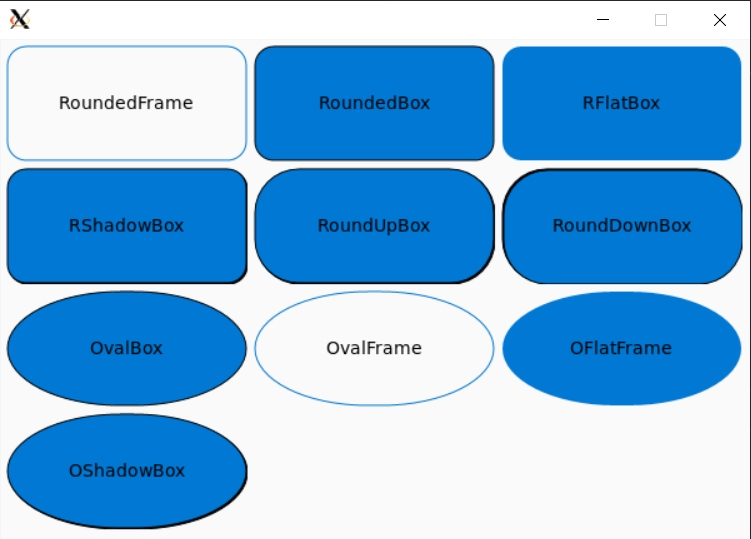
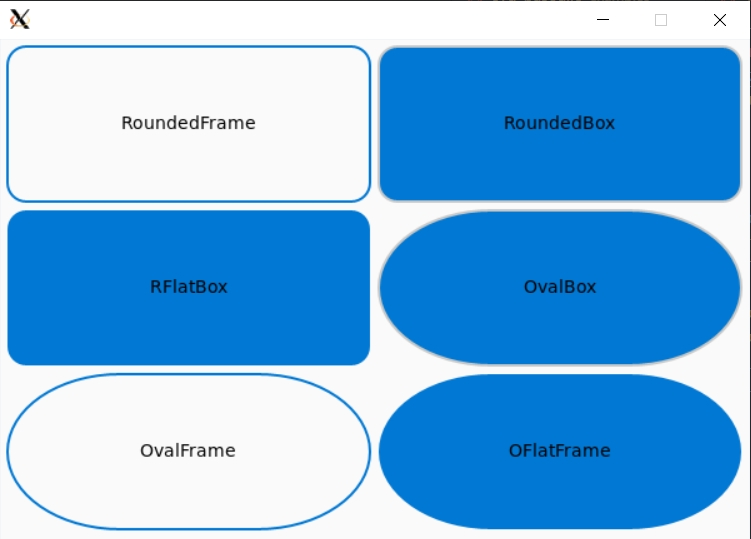
some changes to the SvgBased scheme

diff --git a/src/widget_schemes/svg_based.rs b/src/widget_schemes/svg_based.rs
@@ -4,7 +4,7 @@ use fltk::prelude::ImageExt;
 fn rounded_frame(x: i32, y: i32, w: i32, h: i32, c: Color) {
     let (r, g, b) = c.to_rgb();
     let svg = format!("<?xml version='1.0'?><svg width='{}' height='{}' xmlns='http://www.w3.org/2000/svg'>
-    <rect stroke-width='1' rx='15' width='{}' height='{}' stroke='rgb({}, {}, {})' fill='none' y='1' x='1'/>
+    <rect stroke-width='2' rx='15' width='{}' height='{}' stroke='rgb({}, {}, {})' fill='none' y='1' x='1'/>
   </svg>",w, h, w - 2, h - 2, r, g, b);
     let mut image = fltk::image::SvgImage::from_data(&svg).unwrap();
     image.draw(x, y, w, h);
@@ -13,7 +13,7 @@ fn rounded_frame(x: i32, y: i32, w: i32, h: i32, c: Color) {
 fn rounded_box(x: i32, y: i32, w: i32, h: i32, c: Color) {
     let (r, g, b) = c.to_rgb();
     let svg = format!("<?xml version='1.0'?><svg width='{}' height='{}' xmlns='http://www.w3.org/2000/svg'>
-    <rect stroke-width='1' stroke='black' rx='15' width='{}' height='{}' fill='rgb({}, {}, {})' y='1' x='1'/>
+    <rect stroke-width='2' stroke='rgb(200, 200, 200)' rx='15' width='{}' height='{}' fill='rgb({}, {}, {})' y='1' x='1'/>
   </svg>",w, h, w - 2, h - 2, r, g, b);
     let mut image = fltk::image::SvgImage::from_data(&svg).unwrap();
     image.draw(x, y, w, h);
@@ -22,38 +22,8 @@ fn rounded_box(x: i32, y: i32, w: i32, h: i32, c: Color) {
 fn rflat_box(x: i32, y: i32, w: i32, h: i32, c: Color) {
     let (r, g, b) = c.to_rgb();
     let svg = format!("<?xml version='1.0'?><svg width='{}' height='{}' xmlns='http://www.w3.org/2000/svg'>
-    <rect stroke-width='1' stroke='none' rx='15' width='{}' height='{}' fill='rgb({}, {}, {})' y='1' x='1'/>
+    <rect stroke-width='2' stroke='none' rx='15' width='{}' height='{}' fill='rgb({}, {}, {})' y='1' x='1'/>
   </svg>",w, h, w - 2, h - 2, r, g, b);
-    let mut image = fltk::image::SvgImage::from_data(&svg).unwrap();
-    image.draw(x, y, w, h);
-}
-
-fn rshadow_box(x: i32, y: i32, w: i32, h: i32, c: Color) {
-    let (r, g, b) = c.to_rgb();
-    let svg = format!("<?xml version='1.0'?><svg width='{}' height='{}' xmlns='http://www.w3.org/2000/svg'>
-    <rect stroke-width='1' stroke='black' rx='15' width='{}' height='{}' fill='black' y='2' x='2'/>
-    <rect stroke-width='1' stroke='black' rx='15' width='{}' height='{}' fill='rgb({}, {}, {})' y='1' x='1'/>
-  </svg>",w, h, w - 2 , h - 2 , w - 2, h -2, r, g, b);
-    let mut image = fltk::image::SvgImage::from_data(&svg).unwrap();
-    image.draw(x, y, w, h);
-}
-
-fn round_up_box(x: i32, y: i32, w: i32, h: i32, c: Color) {
-    let (r, g, b) = c.to_rgb();
-    let svg = format!("<?xml version='1.0'?><svg width='{}' height='{}' xmlns='http://www.w3.org/2000/svg'>
-    <rect stroke-width='1' stroke='black' rx='35' width='{}' height='{}' fill='black' y='2' x='2'/>
-    <rect stroke-width='1' stroke='black' rx='35' width='{}' height='{}' fill='rgb({}, {}, {})' y='1' x='1'/>
-  </svg>",w, h, w - 2 , h - 2 , w - 2, h -2, r, g, b);
-    let mut image = fltk::image::SvgImage::from_data(&svg).unwrap();
-    image.draw(x, y, w, h);
-}
-
-fn round_down_box(x: i32, y: i32, w: i32, h: i32, c: Color) {
-    let (r, g, b) = c.to_rgb();
-    let svg = format!("<?xml version='1.0'?><svg width='{}' height='{}' xmlns='http://www.w3.org/2000/svg'>
-    <rect stroke-width='1' stroke='black' rx='35' width='{}' height='{}' fill='black' y='1' x='1'/>
-    <rect stroke-width='1' stroke='black' rx='35' width='{}' height='{}' fill='rgb({}, {}, {})' y='2' x='2'/>
-  </svg>",w, h, w -2, h - 2 , w - 2, h -2, r, g, b);
     let mut image = fltk::image::SvgImage::from_data(&svg).unwrap();
     image.draw(x, y, w, h);
 }
@@ -61,7 +31,7 @@ fn round_down_box(x: i32, y: i32, w: i32, h: i32, c: Color) {
 fn oval_box(x: i32, y: i32, w: i32, h: i32, c: Color) {
     let (r, g, b) = c.to_rgb();
     let svg = format!("<?xml version='1.0'?><svg width='{}' height='{}' xmlns='http://www.w3.org/2000/svg'>
-    <rect stroke-width='1' stroke='black' rx='90' width='{}' height='{}' fill='rgb({}, {}, {})' y='1' x='1'/>
+    <rect stroke-width='2' stroke='rgb(200, 200, 200)' rx='90' width='{}' height='{}' fill='rgb({}, {}, {})' y='1' x='1'/>
   </svg>",w, h, w - 2, h - 2, r, g, b);
     let mut image = fltk::image::SvgImage::from_data(&svg).unwrap();
     image.draw(x, y, w, h);
@@ -70,7 +40,7 @@ fn oval_box(x: i32, y: i32, w: i32, h: i32, c: Color) {
 fn oval_frame(x: i32, y: i32, w: i32, h: i32, c: Color) {
     let (r, g, b) = c.to_rgb();
     let svg = format!("<?xml version='1.0'?><svg width='{}' height='{}' xmlns='http://www.w3.org/2000/svg'>
-    <rect stroke-width='1' rx='90' width='{}' height='{}' stroke='rgb({}, {}, {})' fill='none' y='1' x='1'/>
+    <rect stroke-width='2' rx='90' width='{}' height='{}' stroke='rgb({}, {}, {})' fill='none' y='1' x='1'/>
   </svg>",w, h, w - 2, h - 2, r, g, b);
     let mut image = fltk::image::SvgImage::from_data(&svg).unwrap();
     image.draw(x, y, w, h);
@@ -79,18 +49,8 @@ fn oval_frame(x: i32, y: i32, w: i32, h: i32, c: Color) {
 fn oflat_box(x: i32, y: i32, w: i32, h: i32, c: Color) {
     let (r, g, b) = c.to_rgb();
     let svg = format!("<?xml version='1.0'?><svg width='{}' height='{}' xmlns='http://www.w3.org/2000/svg'>
-    <rect stroke-width='1' stroke='none' rx='90' width='{}' height='{}' fill='rgb({}, {}, {})' y='1' x='1'/>
+    <rect stroke-width='2' stroke='none' rx='90' width='{}' height='{}' fill='rgb({}, {}, {})' y='1' x='1'/>
   </svg>",w, h, w - 2, h - 2, r, g, b);
-    let mut image = fltk::image::SvgImage::from_data(&svg).unwrap();
-    image.draw(x, y, w, h);
-}
-
-fn oshadow_box(x: i32, y: i32, w: i32, h: i32, c: Color) {
-    let (r, g, b) = c.to_rgb();
-    let svg = format!("<?xml version='1.0'?><svg width='{}' height='{}' xmlns='http://www.w3.org/2000/svg'>
-    <rect stroke-width='1' stroke='black' rx='90' width='{}' height='{}' fill='black' y='2' x='2'/>
-    <rect stroke-width='1' stroke='black' rx='90' width='{}' height='{}' fill='rgb({}, {}, {})' y='1' x='1'/>
-  </svg>",w, h, w - 2 , h - 2 , w - 2, h -2, r, g, b);
     let mut image = fltk::image::SvgImage::from_data(&svg).unwrap();
     image.draw(x, y, w, h);
 }
@@ -100,14 +60,10 @@ pub(crate) fn use_svg_based_scheme() {
     use fltk::enums::FrameType::*;
     app::reload_scheme().ok();
     app::set_scheme(app::Scheme::Base);
-    app::set_frame_type_cb(RoundedFrame, rounded_frame, 1, 1, 2, 2);
-    app::set_frame_type_cb(RoundedBox, rounded_box, 1, 1, 2, 2);
-    app::set_frame_type_cb(RFlatBox, rflat_box, 1, 1, 2, 2);
-    app::set_frame_type_cb(RShadowBox, rshadow_box, 1, 1, 2, 2);
-    app::set_frame_type_cb(RoundUpBox, round_up_box, 1, 1, 2, 2);
-    app::set_frame_type_cb(RoundDownBox, round_down_box, 1, 1, 2, 2);
-    app::set_frame_type_cb(OvalBox, oval_box, 1, 1, 2, 2);
-    app::set_frame_type_cb(OvalFrame, oval_frame, 1, 1, 2, 2);
-    app::set_frame_type_cb(OFlatFrame, oflat_box, 1, 1, 2, 2);
-    app::set_frame_type_cb(OShadowBox, oshadow_box, 1, 1, 2, 2);
+    app::set_frame_type_cb(RoundedFrame, rounded_frame, 0, 0, 0, 0);
+    app::set_frame_type_cb(RoundedBox, rounded_box, 0, 0, 0, 0);
+    app::set_frame_type_cb(RFlatBox, rflat_box, 0, 0, 0, 0);
+    app::set_frame_type_cb(OvalBox, oval_box, 0, 0, 0, 0);
+    app::set_frame_type_cb(OvalFrame, oval_frame, 0, 0, 0, 0);
+    app::set_frame_type_cb(OFlatFrame, oflat_box, 0, 0, 0, 0);
 }

diff --git a/examples/svg_based.rs b/examples/svg_based.rs
@@ -5,13 +5,9 @@ const FRAMES: &[FrameType] = &[
     RoundedFrame,
     RoundedBox,
     RFlatBox,
-    RShadowBox,
-    RoundUpBox,
-    RoundDownBox,
     OvalBox,
     OvalFrame,
     OFlatFrame,
-    OShadowBox,
 ];
 
 fn add_frames(frames: &[FrameType]) {
@@ -30,10 +26,8 @@ fn main() {
     scheme.apply();
     let mut win = window::Window::default().with_size(600, 400);
     let mut vgrid = group::VGrid::new(5, 5, 590, 390, None);
-    vgrid.set_params(4, 3, 5);
+    vgrid.set_params(3, 2, 5);
     add_frames(FRAMES);
-    frame::Frame::default();
-    frame::Frame::default();
     vgrid.end();
     win.end();
     win.show();

diff --git a/examples/widget_scheme.rs b/examples/widget_scheme.rs
@@ -5,7 +5,6 @@ fn main() {
     let a = app::App::default();
     let scheme = WidgetScheme::new(SchemeType::Clean);
     scheme.apply();
-    app::background(0xfa, 0xfa, 0xfa);
     let mut win = window::Window::default().with_size(400, 300);
     let mut choice = menu::Choice::new(100, 100, 200, 30, None);
     choice.add_choice("Clean|Crystal|Gleam");

diff --git a/src/lib.rs b/src/lib.rs
@@ -181,13 +181,9 @@ pub enum SchemeType {
     - RoundedFrame
     - RoundedBox
     - RFlatBox
-    - RShadowBox
-    - RoundUpBox
-    - RoundDownBox
     - OvalBox
     - OvalFrame
     - OFlatFrame
-    - OShadowBox
     */
     SvgBased,
 }
